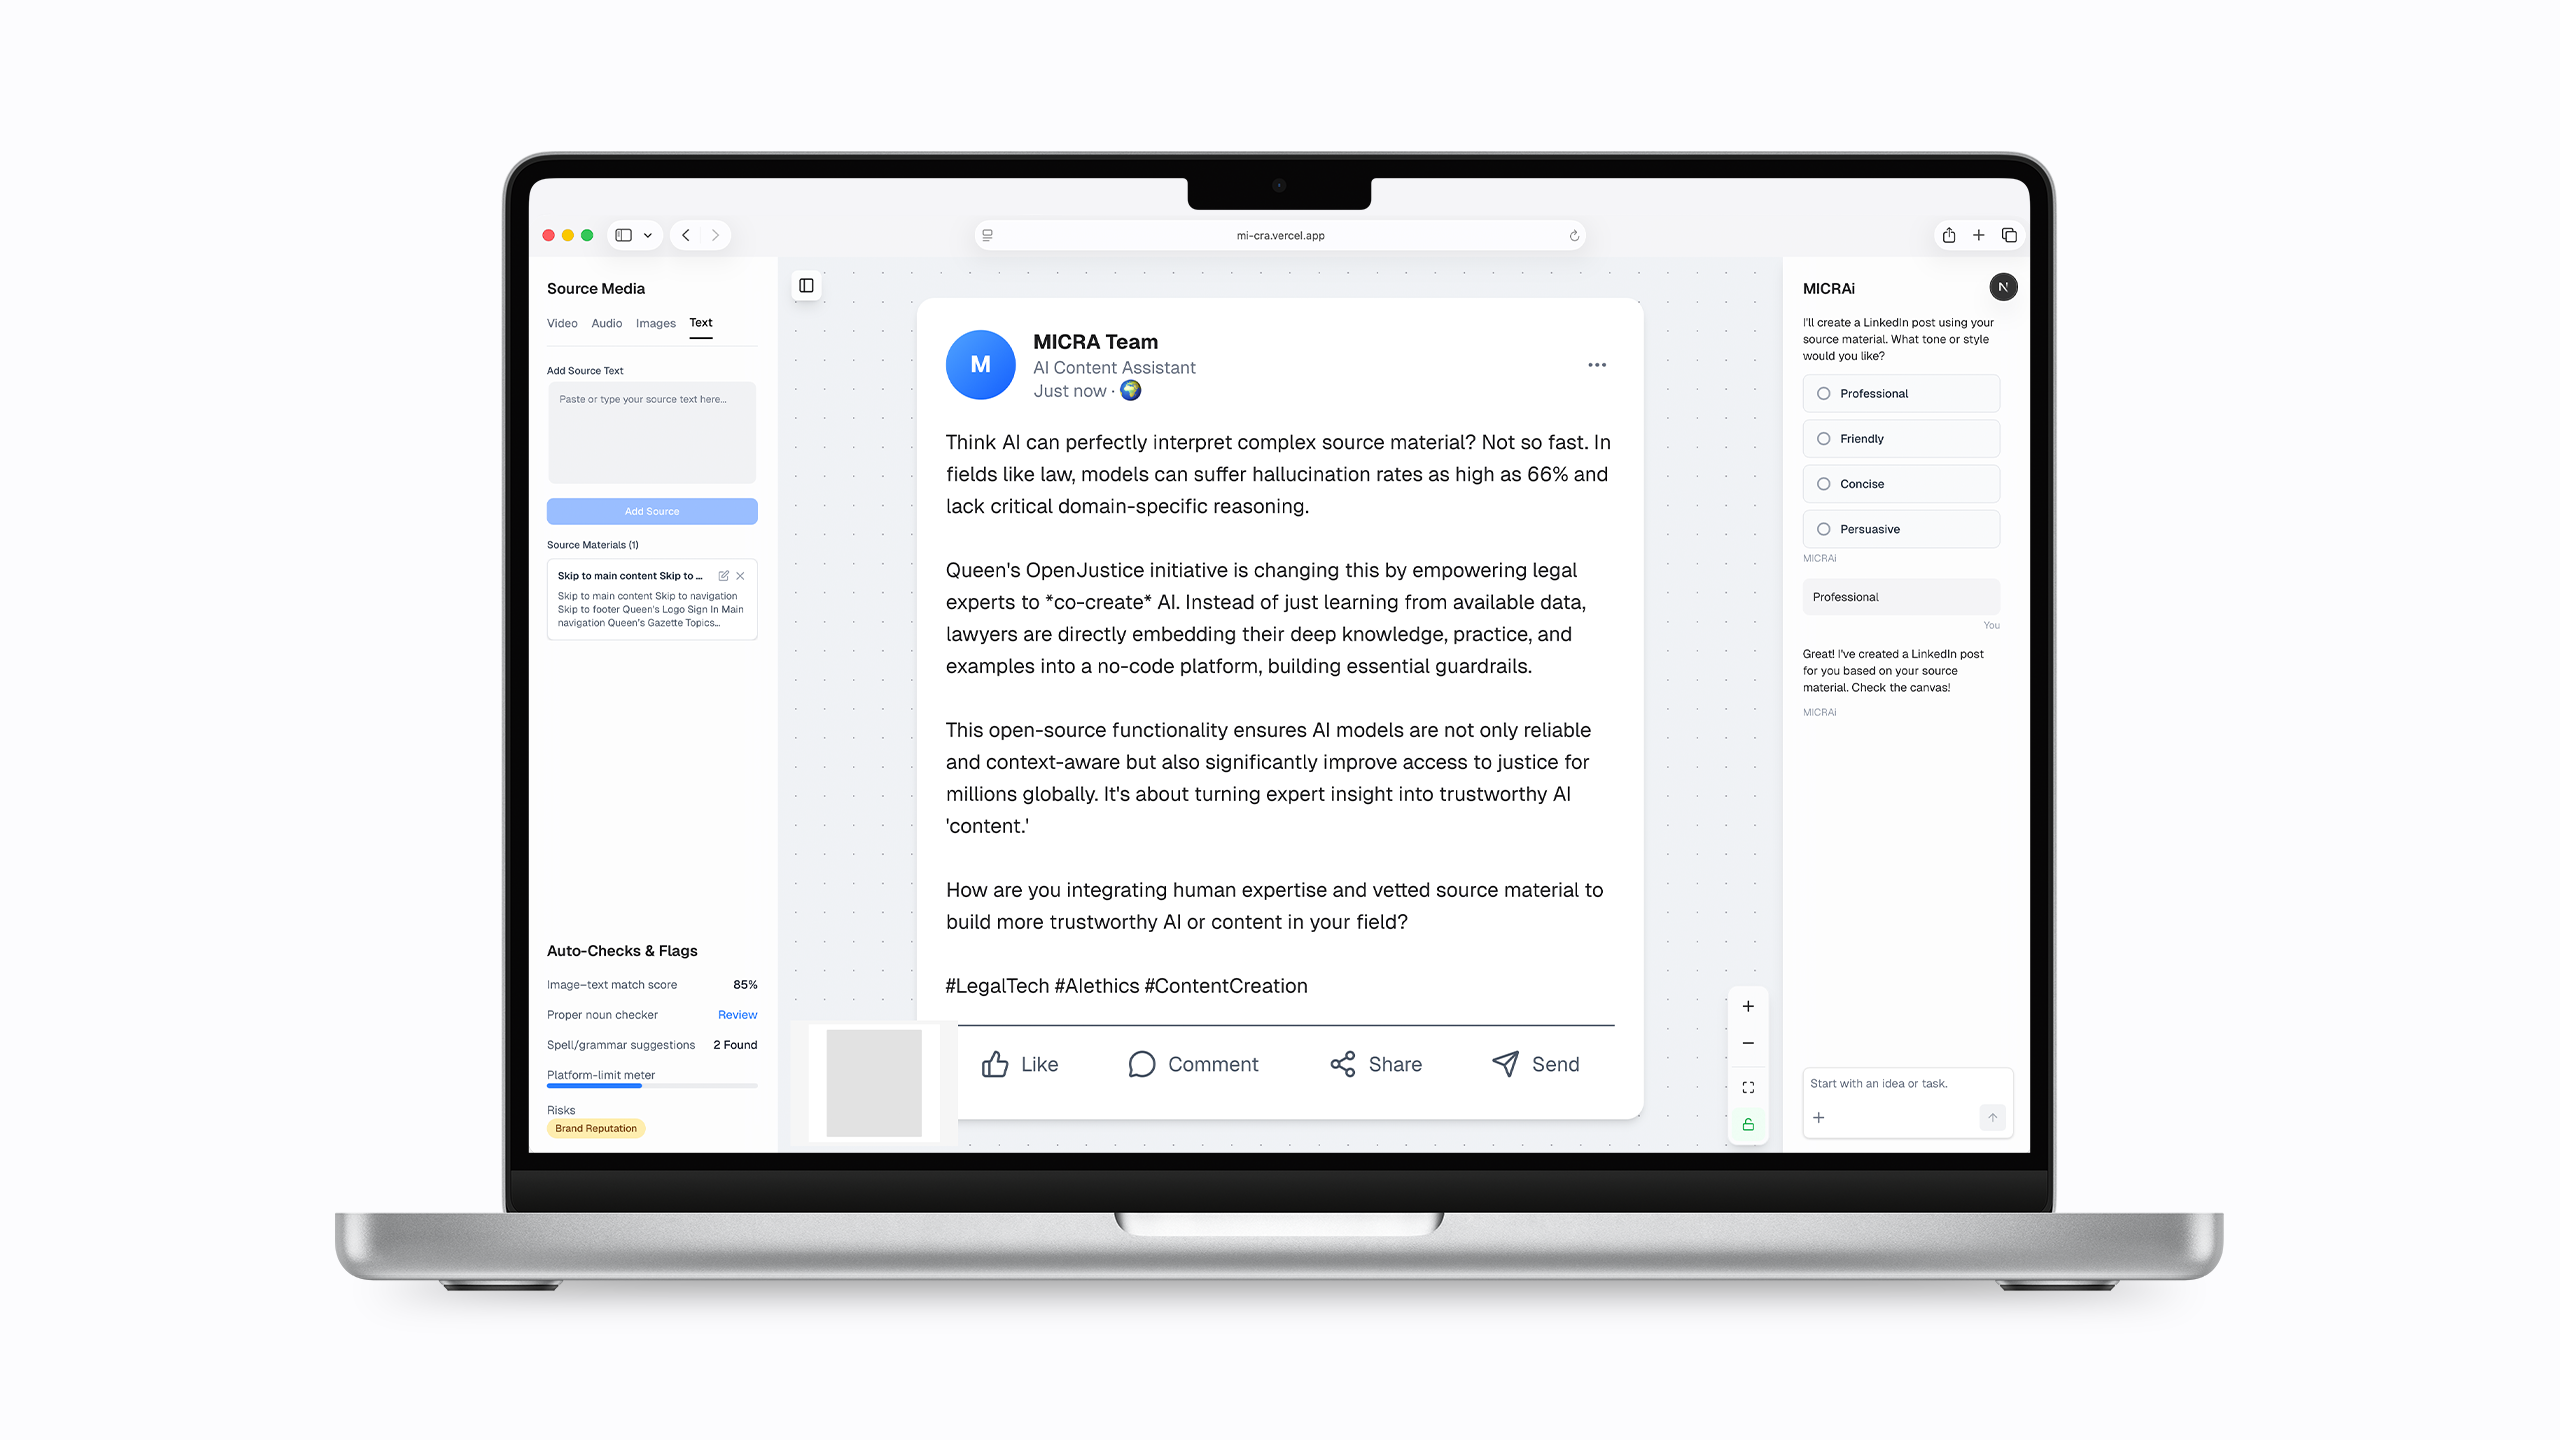
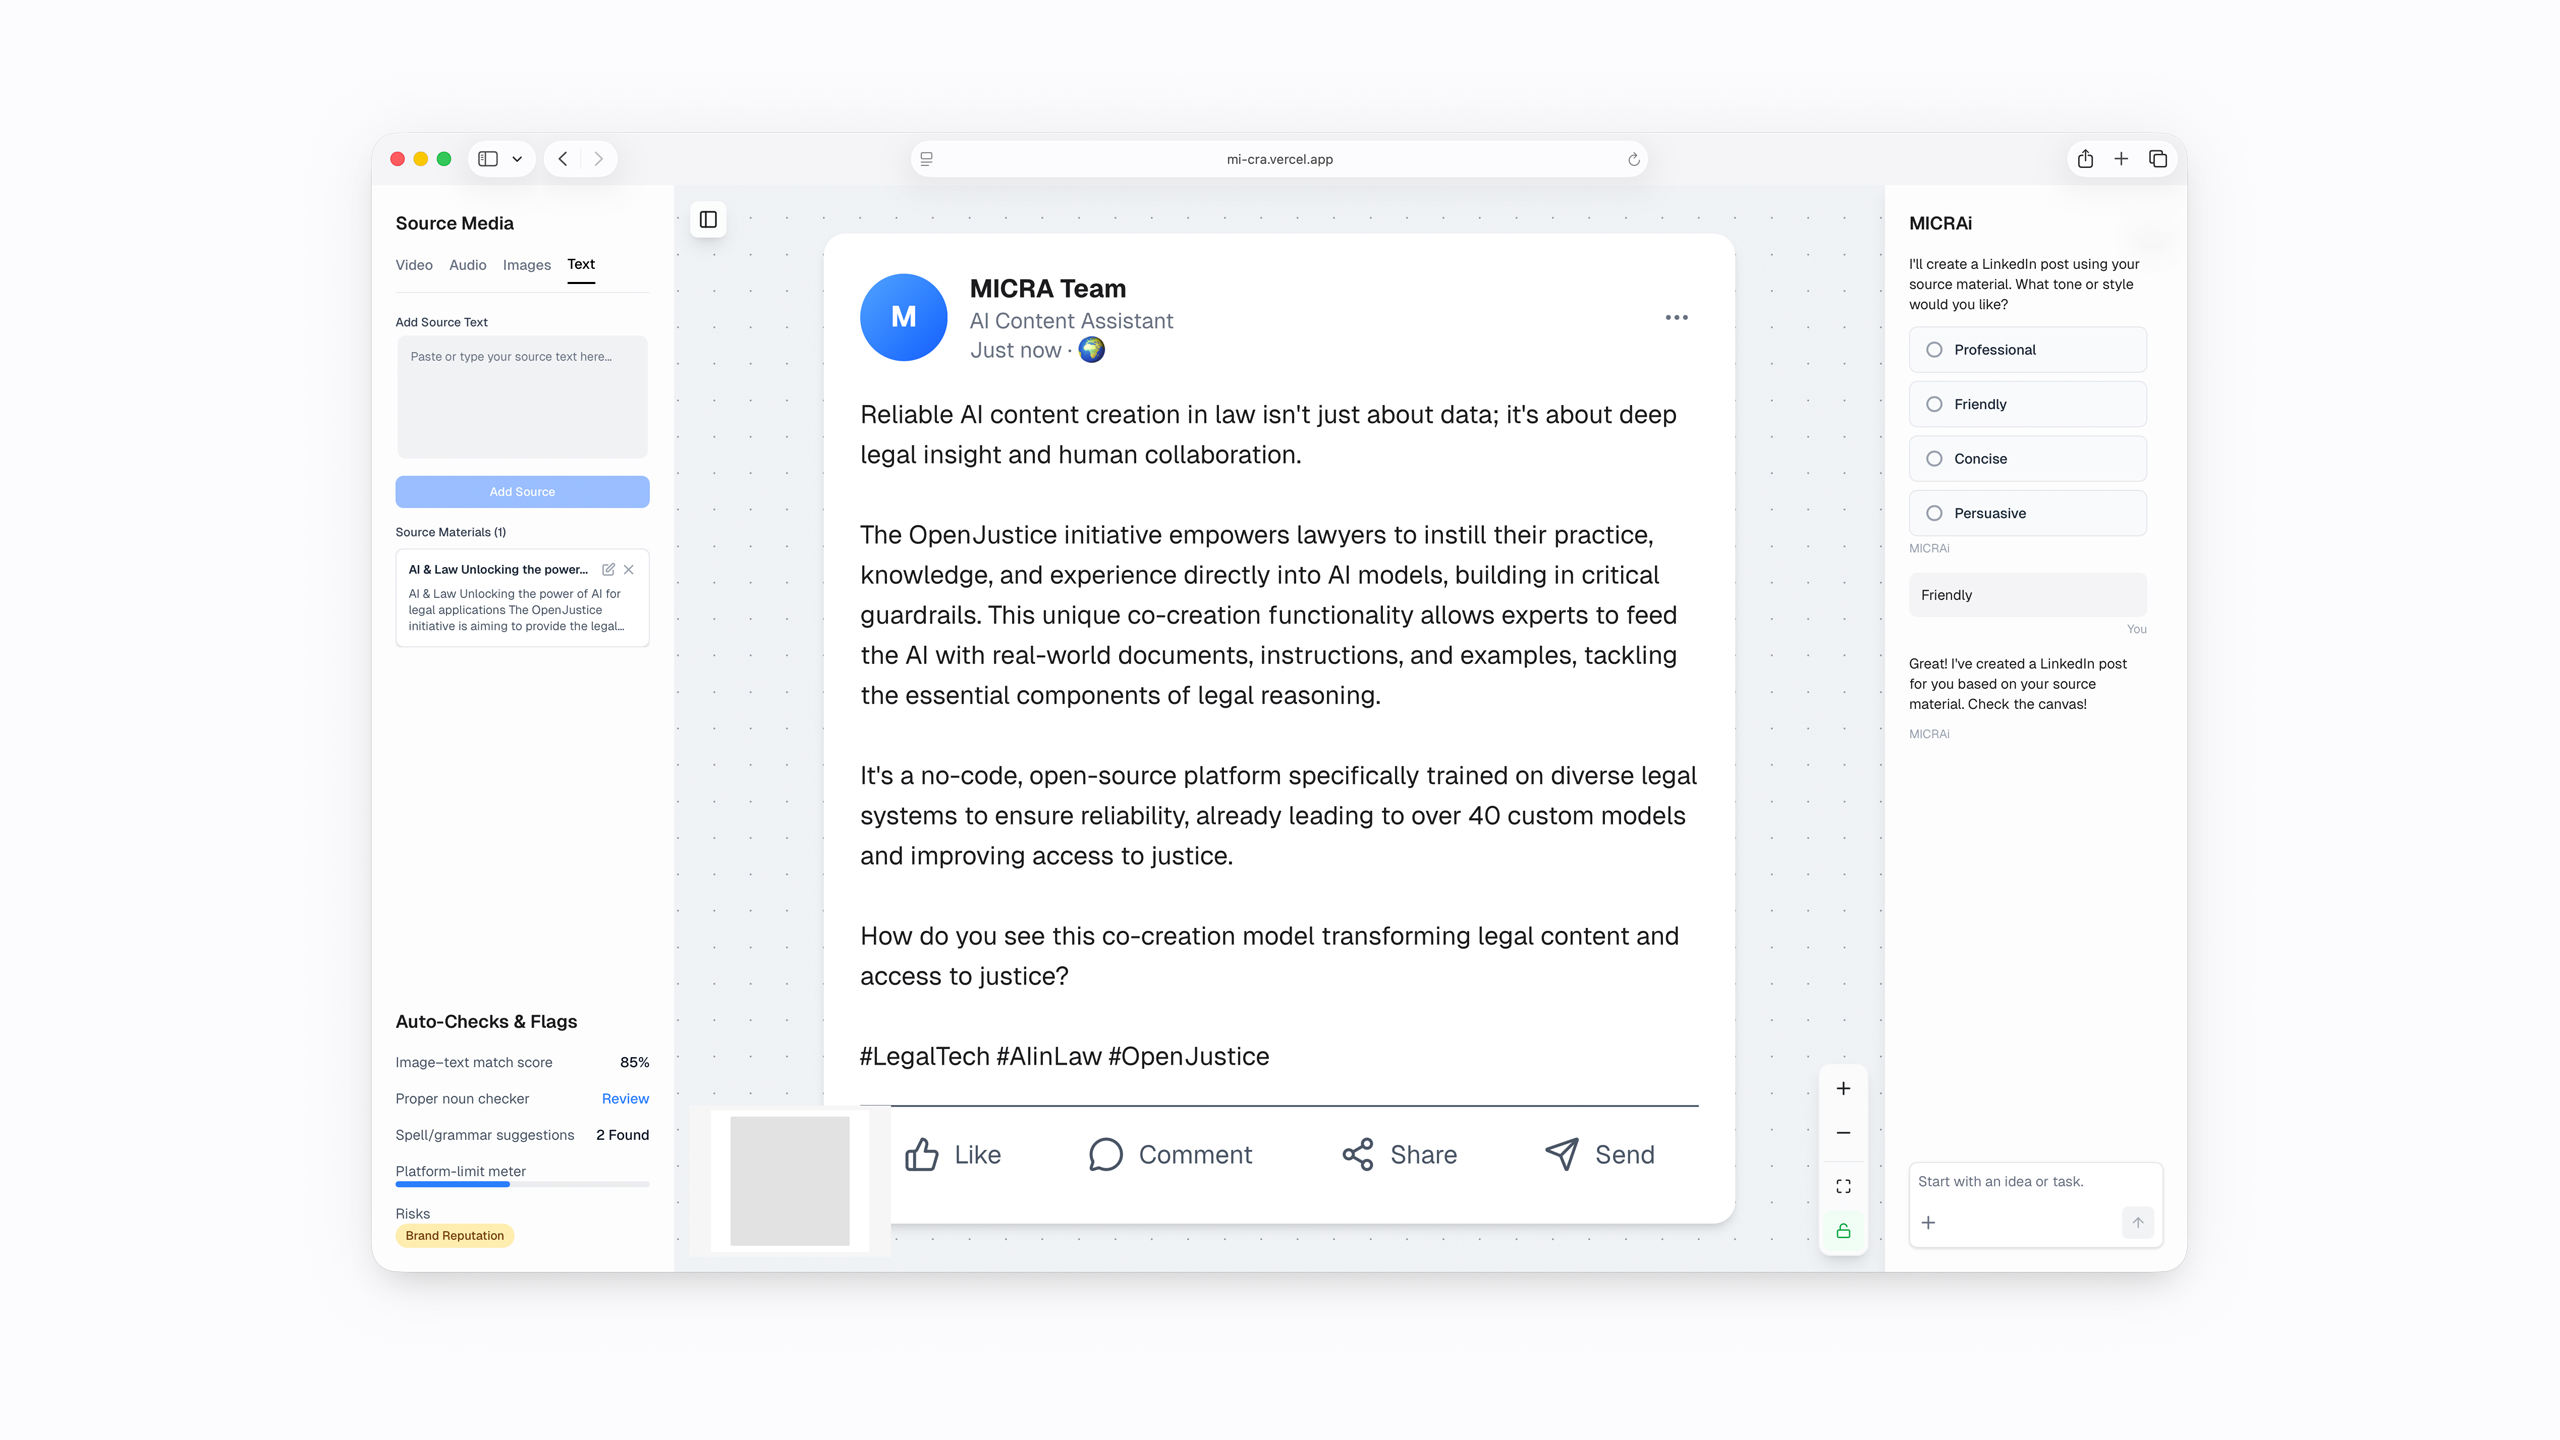
Update project details and improve styling in ProjectCard component
- Changed project years for 'Tricode Cloud', 'Nexridge', 'MiCRA', 'RL² Rocket League Agent', and 'Crakd'.
- Updated subtitles for 'Nexridge', 'MiCRA', 'RL² Rocket League Agent', and 'Crakd' to use proper capitalization.
- Enhanced font sizes and styles in the ProjectCard component for better readability.
- Updated the MiCRA mock image.

Changed region(s): [[0.125, 0.0938, 0.875, 0.9062]]

diff --git a/app/page.jsx b/app/page.jsx
@@ -9,16 +9,16 @@ const projects = [
     index: 1,
     title: 'Tricode Cloud',
     subtitle: 'Clikk Apply',
-    year: '2025',
+    year: '2024 -',
     href: '/projects/clikk-apply',
     imageSrc: '/Tricode Cloud mock.png',
     size: 'large',
   },
   {
     index: 2,
-    title: 'Nexridge',
-    subtitle: 'AI automation',
-    year: '2023',
+    title: 'Nexridge.',
+    subtitle: 'AI Automation',
+    year: '2025 —',
     href: '/projects/nexridge',
     imageSrc: '/Nexridge Mock.png',
     size: 'tall',
@@ -27,8 +27,8 @@ const projects = [
   {
     index: 3,
     title: 'MiCRA',
-    subtitle: 'multi model content repurposing agent',
-    year: '2024',
+    subtitle: 'Multi-Model Content Repurposing Agent',
+    year: '2025 —',
     href: '/projects/micra',
     imageSrc: '/MiCRA Mock V2.png',
     size: 'wide',
@@ -38,7 +38,7 @@ const projects = [
   {
     index: 4,
     title: 'RL² Rocket League Agent',
-    subtitle: 'Reinforcement learning',
+    subtitle: 'Reinforcement Learning',
     year: '2024',
     href: '/projects/rl-rocket-league',
     imageSrc: 'https://placehold.co/960x540/png',
@@ -47,7 +47,7 @@ const projects = [
   {
     index: 5,
     title: 'Crakd',
-    subtitle: 'AI Mock interview',
+    subtitle: 'AI Mock Interview',
     year: '2024',
     href: '/projects/crakd',
     imageSrc: 'https://placehold.co/960x540/png',

diff --git a/components/ProjectCard.jsx b/components/ProjectCard.jsx
@@ -54,8 +54,8 @@ export default function ProjectCard({
       <div className="relative z-10 px-0 pt-6 pb-5">
         <div className="flex items-start justify-between gap-3">
           <div className="min-w-0 flex-1">
-            <h3 className="text-[15px] font-semibold leading-tight text-neutral-900">{title}</h3>
-            <p className="mt-1.5 text-[13px] font-medium leading-relaxed text-neutral-600">{subtitle}</p>
+            <h3 className="text-[18px] font-semibold leading-tight text-neutral-900">{title}</h3>
+            <p className="-mt-1 text-[16px] font-semibold leading-tight text-[#A0A5AC]">{subtitle}</p>
           </div>
           <span className="pt-0.5 text-[13px] font-medium text-neutral-500 whitespace-nowrap">{year}</span>
         </div>
